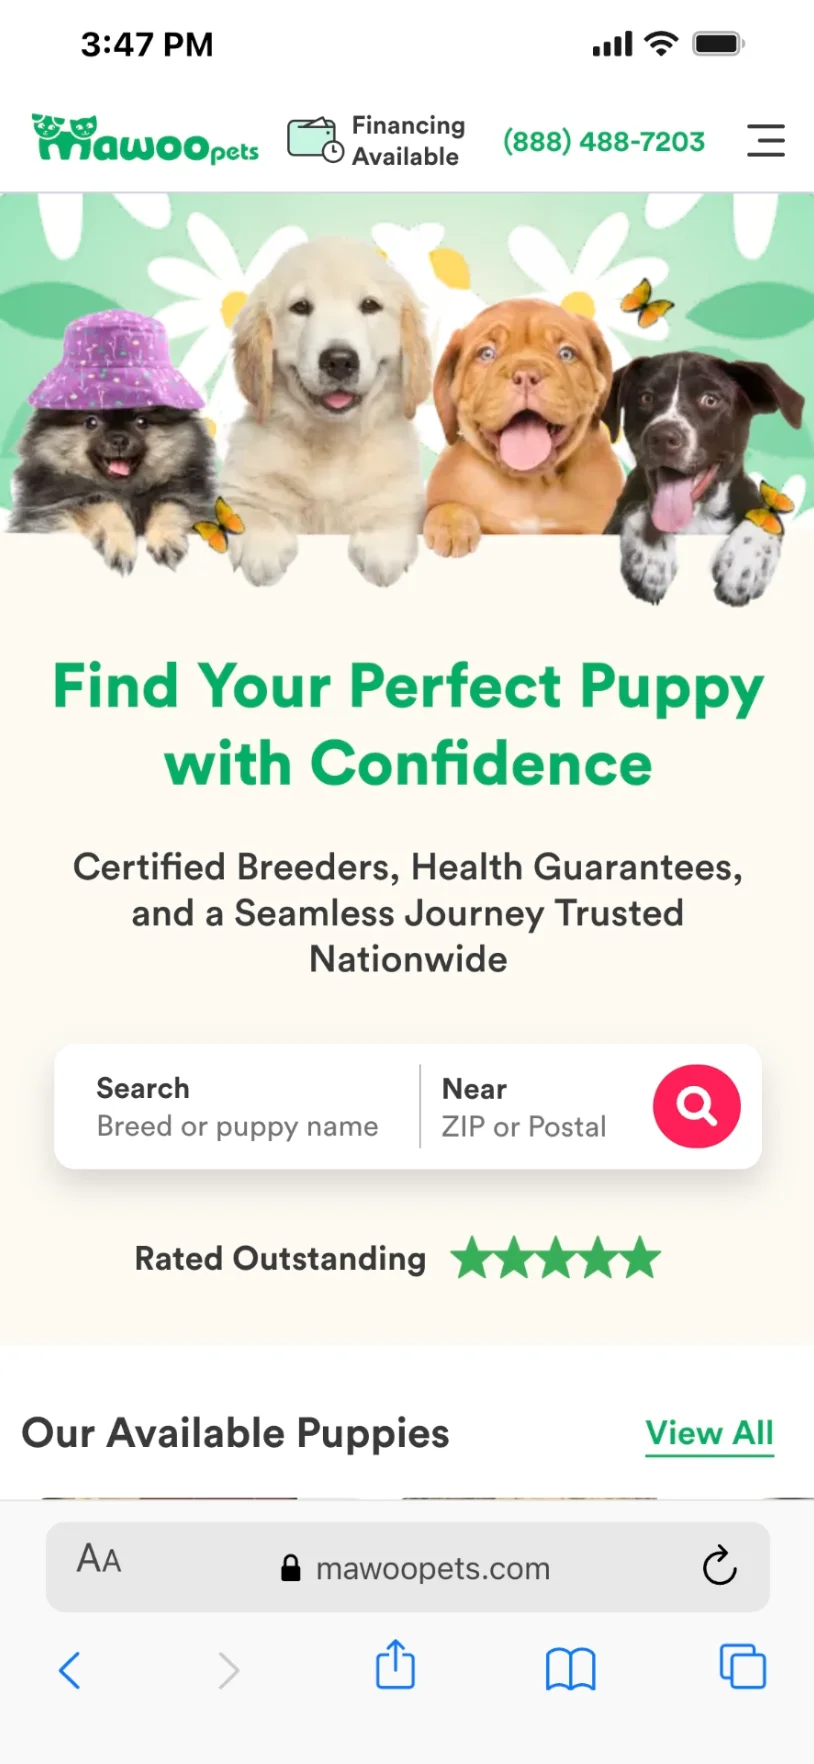
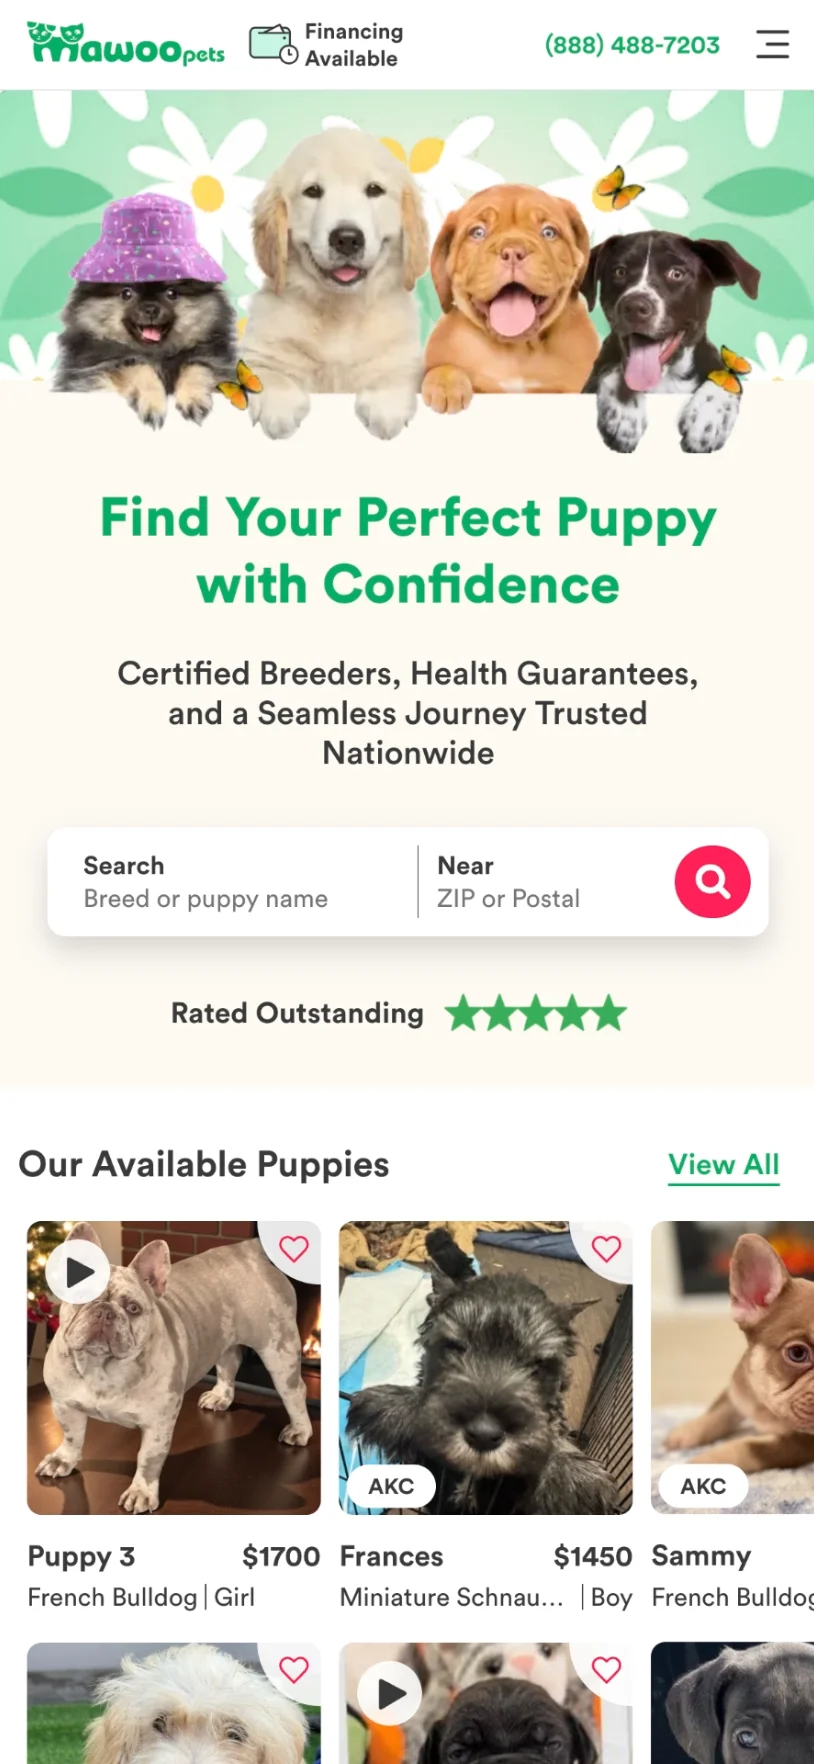
feat: update project details and add new images for XCAD Network projects

diff --git a/app/data/projects.ts b/app/data/projects.ts
@@ -42,16 +42,16 @@ export const projects: Project[] = [
     ],
   },
   {
-    slug: 'task-management',
-    title: 'Task Management App',
+    slug: 'influencer-market-cap',
+    title: 'XCAD Network - Influencer Market Cap',
     description:
-      'Task management application with drag & drop and real-time collaboration.',
+      'A platform for tracking and analyzing the market value of tokenized influencers within the XCAD ecosystem.',
     longDescription:
-      'Kanban-style project management application with drag & drop functionality. Allows creating boards, lists, and cards, assigning team members, and tracking progress. Includes real-time notifications and cross-device synchronization.',
+      'Influencer Market Cap is a data-driven platform that provides insights into the value and performance of tokenized creators within the XCAD ecosystem. As a Frontend Developer, I worked on building data visualization interfaces and dashboards using React and modern frontend tools. My contributions focused on presenting complex blockchain and financial data in a clear, accessible way. I helped develop components that display token metrics, rankings, and trends, enabling users to better understand the performance and market dynamics of creator tokens.',
     technologies: ['React', 'TypeScript', 'Socket.io', 'Node.js', 'MongoDB'],
-    liveUrl: 'https://example.com',
+    liveUrl: 'https://influencermarketcap.com/',
     githubUrl: 'https://github.com',
-    image: '/images/project-2.jpg',
+    image: '/images/influencermarketcap-small.webp',
     features: [
       'Intuitive drag & drop',
       'Real-time with Socket.io',
@@ -61,16 +61,16 @@ export const projects: Project[] = [
     ],
   },
   {
-    slug: 'portfolio-cms',
-    title: 'Portfolio CMS',
+    slug: 'xcad-site',
+    title: 'XCAD Network - Site',
     description:
-      'Content management system for portfolios with a visual editor.',
+      'Official website for XCAD Network, a Web3 platform enabling creators to tokenize their audiences and reward engagement.',
     longDescription:
-      'A headless CMS designed specifically for creative portfolios. Includes a drag-and-drop visual editor, automatic image optimization, customizable themes, and static site generation for maximum performance.',
+      'XCAD Network is a blockchain-based platform that allows content creators to tokenize their audiences and build new monetization models through fan engagement. As a Frontend Developer, I worked on the main website using React and Next.js, contributing to the development of responsive, high-performance user interfaces. My work focused on building core pages, improving UI consistency, and ensuring a smooth and engaging user experience across devices. I collaborated closely with designers and product teams to translate complex Web3 concepts into intuitive interfaces accessible to a broader audience.',
     technologies: ['Next.js', 'Sanity', 'Framer Motion', 'Tailwind', 'Vercel'],
-    liveUrl: 'https://example.com',
+    liveUrl: 'https://www.xcadnetwork.com/',
     githubUrl: 'https://github.com',
-    image: '/images/project-3.jpg',
+    image: '/images/xcadnetwork-web-small.webp',
     features: [
       'Drag & drop visual editor',
       'Image optimization',
@@ -80,14 +80,16 @@ export const projects: Project[] = [
     ],
   },
   {
-    slug: 'weather-dashboard',
-    title: 'Weather Dashboard',
+    slug: 'xcad-browser-extension',
+    title: 'XCAD Network - Browser Extension',
     description:
-      'Weather dashboard with forecasts, interactive maps, and alerts.',
+      'XCAD Network is enabling the #Watch2Earn revolution by allowing fans to earn Creator tokens for watching their favourite Creators, directly on YouTube.',
     longDescription:
-      'Meteorological dashboard displaying detailed forecasts, real-time precipitation maps, and severe weather alerts. Built with React and D3.js for data visualizations. Includes geolocation and city search.',
-    technologies: ['React', 'D3.js', 'OpenWeather API', 'Mapbox', 'PWA'],
-    liveUrl: 'https://example.com',
+      'XCAD Network is enabling the #Watch2Earn revolution by allowing fans to earn Creator tokens for watching their favourite Creators, directly on YouTube.  The XCAD browser extension allows viewers to earn Creator tokens while watching their favourite Creators. Viewers can earn, view and trade Creator tokens all via the XCAD plugin. The plugin works in the background while you watch videos on YouTube.   Viewers who have installed the XCAD plugin will be rewarded with the Creator tokens when they watch 80% or more of a video.  Creator tokens can be used to vote on polls put out by their favourite Creators, the more tokens a viewer holds, the more weight their vote carries. This means the most loyal fans have the most say in a Creators Content. Furthermore, viewers are able to stake their Creator tokens with XCAD to get a multiplier on the rewards they earn from watching videos. The XCAD Network browser extension powers the Watch-to-Earn ecosystem by allowing users to earn Creator tokens directly while watching YouTube videos. As a Frontend Developer, I worked on building and maintaining the extension interface using React and modern JavaScript tools. My contributions included developing user interaction flows, integrating wallet connections, and implementing token-related features such as earning, tracking, and staking rewards. The extension operates seamlessly in the background, rewarding users based on engagement while providing an intuitive interface for managing tokens, participating in creator polls, and interacting with the broader XCAD ecosystem.',
+    technologies: ['React', 'TypeScript', 'Chrome Extension API', 'Web3.js'],
+
+    liveUrl:
+      'https://chromewebstore.google.com/detail/xcad-network/elcdacbfpnjajikgpenambffmmoimeea',
     githubUrl: 'https://github.com',
     image: '/images/project-4.jpg',
     features: [
@@ -99,15 +101,16 @@ export const projects: Project[] = [
     ],
   },
   {
-    slug: 'finance-tracker',
-    title: 'Finance Tracker',
-    description: 'Personal finance tracking app with budgets and reports.',
+    slug: 'xcad-social',
+    title: 'XCAD Network - Social',
+    description:
+      'An AI Influencer is a virtual persona powered by AI. In XCAD Social, you can launch your own AI Creator where the whole community can generate content, create images, and trade it together.',
     longDescription:
-      'Personal finance application that allows recording expenses and income, setting monthly budgets, and visualizing trends with interactive charts. Includes AI-powered automatic categorization and report exporting.',
+      'XCAD Social is an innovative platform that allows users to create and engage with AI-powered influencers. These virtual creators enable communities to collaboratively generate content, produce images, and participate in a shared creative economy. As a Frontend Developer, I contributed to building interactive user interfaces using React and Next.js, focusing on usability and performance. My work involved developing dynamic features for content creation, user interaction, and real-time feedback within the platform. The goal was to make complex AI-driven workflows feel intuitive and engaging, allowing users to seamlessly create, explore, and interact with AI-generated content',
     technologies: ['React Native', 'Firebase', 'Chart.js', 'Plaid API'],
-    liveUrl: 'https://example.com',
+    liveUrl: 'https://www.xcad.social/en',
     githubUrl: 'https://github.com',
-    image: '/images/project-5.jpg',
+    image: '/images/xcad-social-small.webp',
     features: [
       'Expense tracking',
       'Budgets',

diff --git a/app/components/WorkCard.tsx b/app/components/WorkCard.tsx
@@ -36,6 +36,8 @@ export default function WorkCard({ project, index }: WorkCardProps) {
               className="object-cover object-top grayscale group-hover:grayscale-0 transition-all duration-300 group-hover:scale-105"
             />
 
+            <div className="absolute inset-0 bg-green-accent/30 mix-blend-multiply group-hover:bg-transparent transition-colors duration-300 pointer-events-none" />
+
             {/* Hover overlay */}
             <div className="absolute inset-0 bg-foreground/5 group-hover:bg-foreground/10 transition-colors duration-300" />
 
